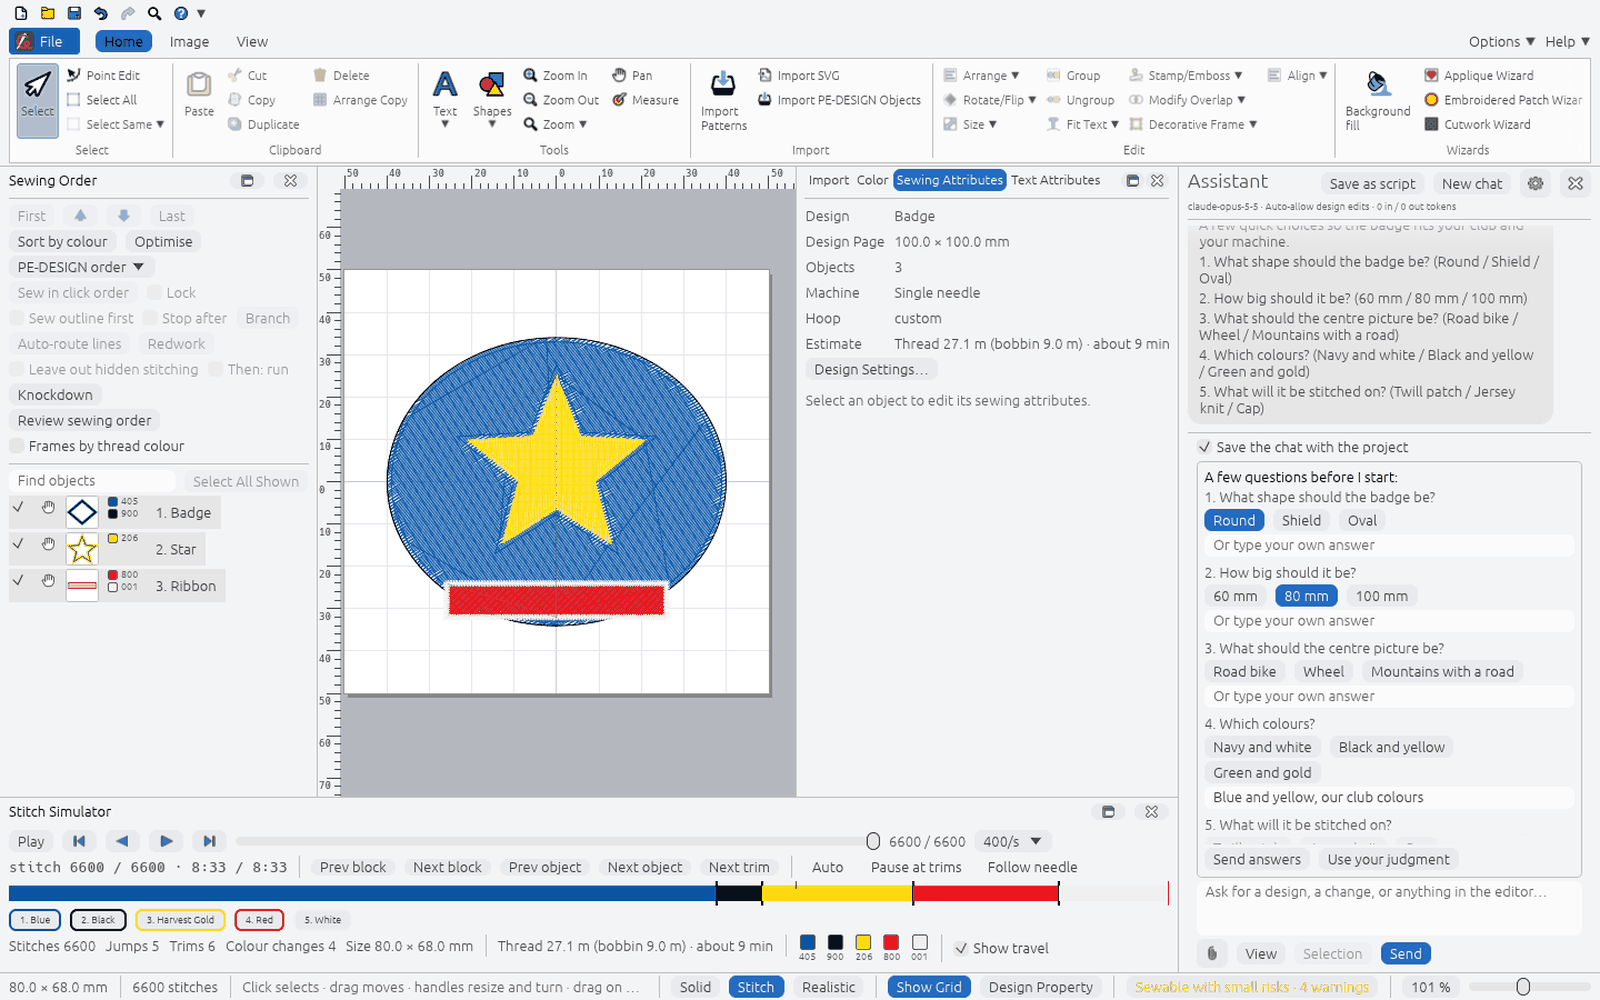
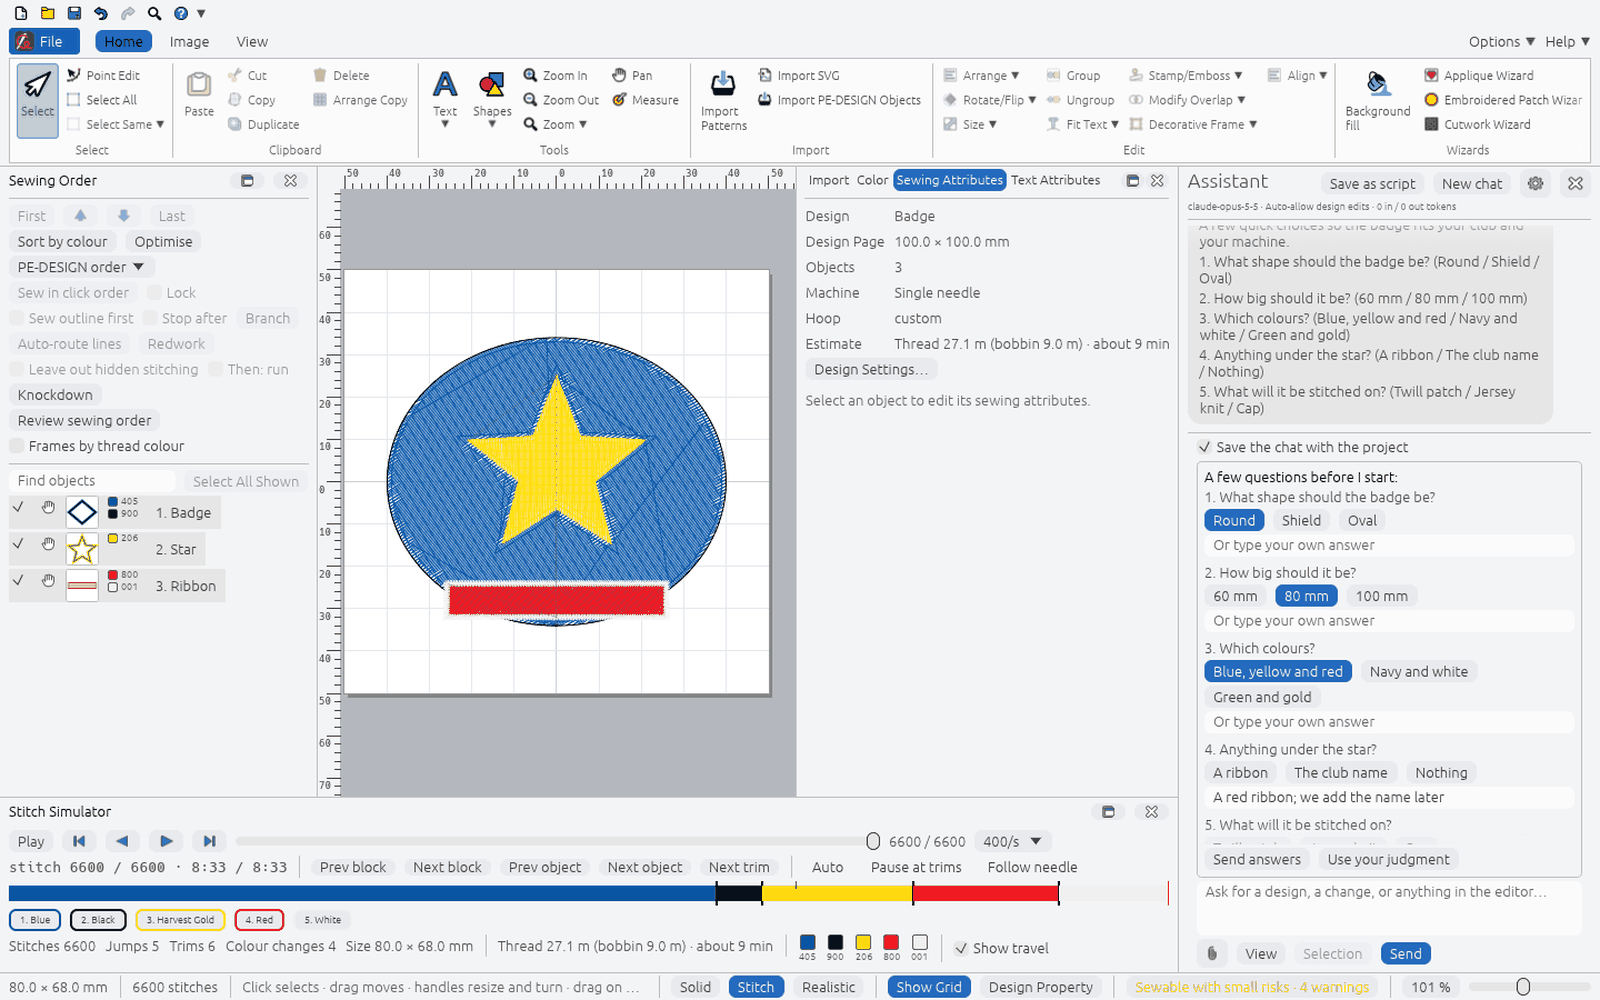
The Assistant screenshots' conversation matches the star badge on the canvas (#1172)

Changed region(s): [[0.75, 0.62, 0.9375, 0.806], [0.75, 0.31, 0.9688, 0.403]]

diff --git a/crates/openstitch-app/src/assistant_offers.rs b/crates/openstitch-app/src/assistant_offers.rs
@@ -559,22 +559,25 @@ pub fn show_sample(app: &mut EditorApp, questions: bool) {
     let panel = &mut app.assistant.panel;
     panel
         .items
-        .push(Item::User("make me a badge for my cycling club".into()));
+        .push(Item::User("make me a badge with a star for my club".into()));
+    // The texts match the demo design on the canvas: a round blue badge, 80 × 68 mm, with a
+    // yellow star and a red ribbon.
     if questions {
         let mut q = parse_questions(&json!({
             "intro": "A few quick choices so the badge fits your club and your machine.",
             "questions": [
                 { "question": "What shape should the badge be?", "choices": ["Round", "Shield", "Oval"] },
                 { "question": "How big should it be?", "choices": ["60 mm", "80 mm", "100 mm"] },
-                { "question": "What should the centre picture be?", "choices": ["Road bike", "Wheel", "Mountains with a road"] },
-                { "question": "Which colours?", "choices": ["Navy and white", "Black and yellow", "Green and gold"] },
+                { "question": "Which colours?", "choices": ["Blue, yellow and red", "Navy and white", "Green and gold"] },
+                { "question": "Anything under the star?", "choices": ["A ribbon", "The club name", "Nothing"] },
                 { "question": "What will it be stitched on?", "choices": ["Twill patch", "Jersey knit", "Cap"] },
             ],
         }))
         .expect("sample questions");
         q.questions[0].picked = Some(0);
         q.questions[1].picked = Some(1);
-        q.questions[3].typed = "Blue and yellow, our club colours".into();
+        q.questions[2].picked = Some(0);
+        q.questions[3].typed = "A red ribbon; we add the name later".into();
         panel.items.push(Item::Assistant(
             "I've put a few questions on screen. Answer what you can, or tell me to use my judgment."
                 .into(),
@@ -583,14 +586,14 @@ pub fn show_sample(app: &mut EditorApp, questions: bool) {
         panel.offers.questions = Some(q);
     } else {
         panel.items.push(Item::Assistant(
-            "Here is the badge: a round 80 mm crest with a road bike in the centre and \"Hilltop Wheelers\" arced along the top, in blue and yellow with a thick satin border."
+            "Here is the badge: a round blue badge, 80 × 68 mm, with a yellow star in the middle and a red ribbon across the bottom."
                 .into(),
         ));
         panel.offers.suggestions = Some(Suggestions {
-            message: "Add \"Est. 1987\" under the bike".into(),
+            message: "Add the club name on the ribbon".into(),
             chips: vec![
                 "Make it 100 mm".into(),
-                "Use a shield shape".into(),
+                "Outline the star in satin".into(),
                 "Export it as PES".into(),
             ],
         });
